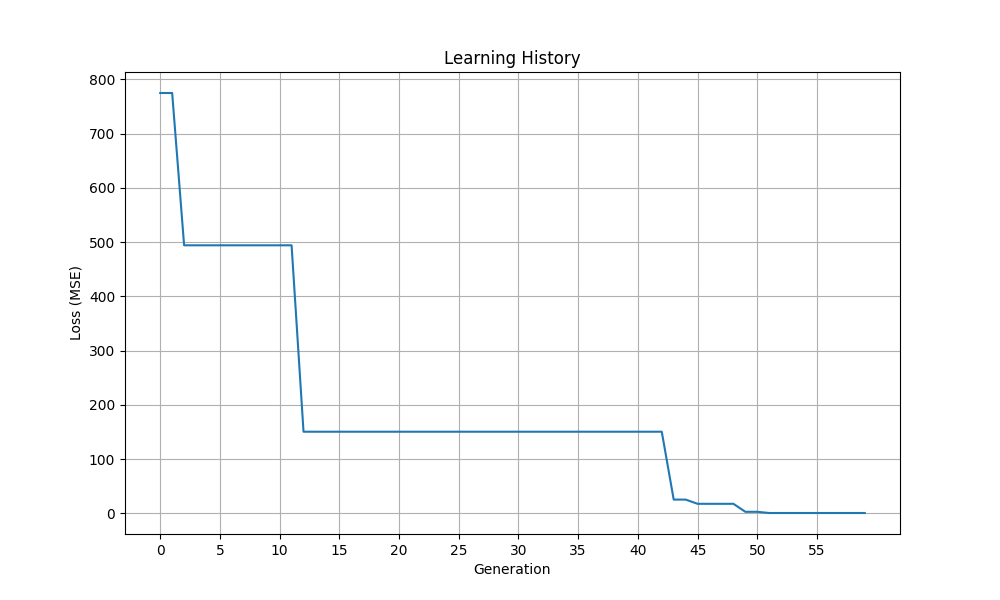
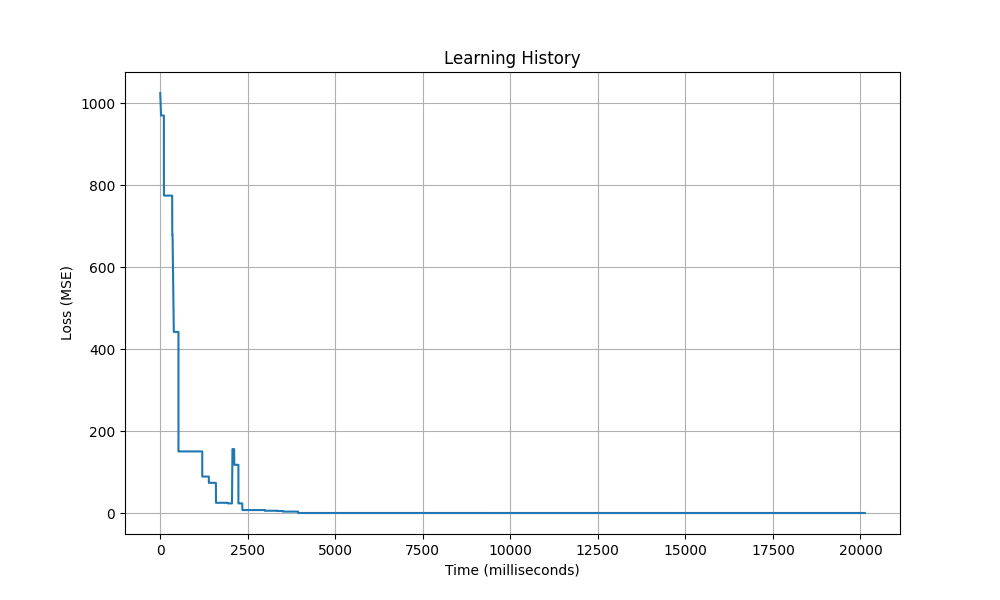
Make learning history with respect to time instead of generation

diff --git a/src/genetic/learning_history.cc b/src/genetic/learning_history.cc
@@ -5,11 +5,40 @@
 
 #include <cassert>
 #include <cmath>
+#include <iostream>
+#include <bits/chrono.h>
 
 namespace qsr {
 
+static long timestamp_in_milliseconds() {
+    const auto now = std::chrono::system_clock::now();
+    const auto duration = now.time_since_epoch();
+    return std::chrono::duration_cast<std::chrono::milliseconds>(duration).count();
+}
+
+static float minimum_with_nan_check(const float a, const float b)
+{
+    // If both are NaN
+    if (std::isnan(a) && std::isnan(b)) {
+        return std::numeric_limits<float>::quiet_NaN();
+    }
+    // If this is not NaN, but other is NaN
+    else if (!std::isnan(a) && std::isnan(b)) {
+        return a;
+    }
+    // If other is not NaN, but this is NaN
+    else if (std::isnan(a) && !std::isnan(b)) {
+        return b;
+    }
+    // If neither is NaN
+    else {
+        return std::min(a, b);
+    }
+}
+
 void LearningHistory::add_to_history(const Expression& expression) {
     history.push_back(expression.loss);
+    time.push_back(timestamp_in_milliseconds());
 }
 
 LearningHistory LearningHistory::combine_with(LearningHistory other) {
@@ -20,43 +49,48 @@ LearningHistory LearningHistory::combine_with(LearningHistory other) {
 
     LearningHistory combined;
 
-    // Ensure both histories have the same size
-    assert(this->history.size() == other.history.size());
+    // Ensure histories and times have the same size
+    assert(this->history.size() == this->time.size());
+    assert(other.history.size() == other.time.size());
 
-    for (int i = 0; i < this->history.size(); ++i) {
-        // If both are NaN
-        if (std::isnan(this->history[i]) && std::isnan(other.history[i])) {
-            combined.history.push_back(std::numeric_limits<float>::quiet_NaN());
+    int self_index = 0;
+    int other_index = 0;
+
+    float current_loss = std::numeric_limits<float>::max();
+    while (self_index < this->time.size() || other_index < other.time.size())
+    {
+        bool take_self = self_index < this->time.size();
+        if (take_self && other_index < other.time.size())
+            take_self = this->time[self_index] < other.time[other_index];
+
+        if (take_self)
+        {
+            const auto self_loss = this->history[self_index];
+            current_loss = minimum_with_nan_check(self_loss, current_loss);
+            combined.history.emplace_back(current_loss);
+            combined.time.emplace_back(this->time[self_index++]);
         }
-        // If this is not NaN, but other is NaN
-        else if (!std::isnan(this->history[i]) && std::isnan(other.history[i])) {
-            combined.history.push_back(this->history[i]);
-        }
-        // If other is not NaN, but this is NaN
-        else if (std::isnan(this->history[i]) && !std::isnan(other.history[i])) {
-            combined.history.push_back(other.history[i]);
-        }
-        // If neither is NaN
-        else {
-             // If this has lower loss, use this
-            if (this->history[i] < other.history[i]) {
-                combined.history.push_back(this->history[i]);
-            } 
-            // If other has lower loss, use other
-            else {
-                combined.history.push_back(other.history[i]);
-            }
+        else
+        {
+            const auto other_loss = other.history[other_index];
+            current_loss = minimum_with_nan_check(other_loss, current_loss);
+            combined.history.emplace_back(current_loss);
+            combined.time.emplace_back(other.time[other_index++]);
         }
     }
 
     return combined;
 }
 
-LearningHistory LearningHistory::concatenate_with(LearningHistory other) {
+LearningHistory LearningHistory::concatenate_with(LearningHistory other) const
+{
     LearningHistory concatenated;
 
     concatenated.history = this->history;
+    concatenated.time = this->time;
+
     concatenated.history.insert(concatenated.history.end(), other.history.begin(), other.history.end());
+    concatenated.time.insert(concatenated.time.end(), other.time.begin(), other.time.end());
 
     return concatenated;
 }

diff --git a/src/genetic/genetic_programming_islands.cc b/src/genetic/genetic_programming_islands.cc
@@ -53,7 +53,7 @@ GeneticProgrammingIslands::~GeneticProgrammingIslands() noexcept {
     delete[] local_learning_history;
 }
 
-std::tuple<Expression,std::vector<float>> GeneticProgrammingIslands::fit(
+std::tuple<Expression, std::vector<float>, std::vector<long>> GeneticProgrammingIslands::fit(
     std::shared_ptr<Dataset> dataset, 
     int ngenerations, int nsupergenerations, 
     int nepochs, float learning_rate, bool verbose) noexcept 
@@ -81,8 +81,17 @@ std::tuple<Expression,std::vector<float>> GeneticProgrammingIslands::fit(
         migrate_solutions();
     }
 
-    // Return tuple of best solution and learning history
-    return std::make_tuple(*global_best, global_learning_history.get_learning_history());
+    std::vector<float> final_learning_history = global_learning_history.get_learning_history();
+    std::vector<long> final_time_history = global_learning_history.get_time_history();
+
+    // Remove start offset from timestamps
+    const long min_time = *std::ranges::min_element(final_time_history);
+    for (long & i : final_time_history) {
+        i -= min_time;
+    }
+
+    // Return tuple of the best solution and learning history
+    return std::make_tuple(*global_best, final_learning_history, final_time_history);
 }
 
 void GeneticProgrammingIslands::migrate_solutions() noexcept {

diff --git a/quicksr.py b/quicksr.py
@@ -48,6 +48,7 @@ class SymbolicRegressionModel:
         )
 
         # Initialize history, solution and compiled solution to None
+        self.time_history = None
         self.history = None
         self.solution = None
         self.compiled_solution = None
@@ -68,14 +69,15 @@ class SymbolicRegressionModel:
         dataset = Dataset(X, y)
 
         # Fit the model
-        solution, history = self.model.fit(dataset, ngenerations, nsupergenerations, nepochs, learning_rate, verbose)
+        solution, history, time_history = self.model.fit(dataset, ngenerations, nsupergenerations, nepochs, learning_rate, verbose)
 
         # Save the solution and history
         self.solution = solution
         self.history = history
+        self.time_history = time_history
 
         # Return the solution and history
-        return solution, history
+        return solution, history, time_history
 
 
     def predict(self, X):

diff --git a/benchmark/benchmark1d.py b/benchmark/benchmark1d.py
@@ -20,21 +20,20 @@ y = 1.0 + 3.0*X + 5.0*X*X + 7.0*X*X*X
 model = SymbolicRegressionModel(NVARS, NWEIGHTS, NPOPULATION, NISLANDS, initialization=GrowInitialization(init_depth=1))
 
 # Fit model
-solution, history = model.fit(X, y, ngenerations=15, nsupergenerations=4, nepochs=500)
+solution, history, time_history = model.fit(X, y, ngenerations=15, nsupergenerations=4, nepochs=500)
 
 # Print best solution
 print("Best solution: {}".format(solution))
 
-# Print learning history
-print("Learning history: {}".format(history))
+# Print best loss
+print("Best loss: {}".format(solution.loss))
 
 # Plot learning history
 plt.figure(figsize=(10, 6))
-plt.plot(history)
-plt.xlabel('Generation')
+plt.plot(time_history, history)
+plt.xlabel('Time (milliseconds)')
 plt.ylabel('Loss (MSE)')
 plt.title('Learning History')
-plt.xticks(np.arange(0, len(history), 5.0))
 plt.grid()
 plt.savefig('benchmark_learning_history_1d.png')
 

diff --git a/benchmark/benchmark2d.py b/benchmark/benchmark2d.py
@@ -25,21 +25,20 @@ y = [1/(1 + x0**(-4)) + 1/(1 + x1**(-4))
 model = SymbolicRegressionModel(NVARS, NWEIGHTS, NPOPULATION, NISLANDS, functions=["+", "/", 'cos', 'relu'])
 
 # Fit model
-solution, history = model.fit(X, y, ngenerations=15, nsupergenerations=4, nepochs=0)
+solution, history, time_history = model.fit(X, y, ngenerations=15, nsupergenerations=4, nepochs=0)
 
 # Print best solution
 print("Best solution: {}".format(solution))
 
-# Print learning history
-print("Learning history: {}".format(history))
+# Print best loss
+print("Best loss: {}".format(solution.loss))
 
 # Plot learning history
 plt.figure(figsize=(10, 6))
-plt.plot(history)
-plt.xlabel('Generation')
+plt.plot(time_history, history)
+plt.xlabel('Time (milliseconds)')
 plt.ylabel('Loss (MSE)')
 plt.title('Learning History')
-plt.xticks(np.arange(0, len(history), 15.0))
 plt.grid()
 plt.savefig('benchmark_learning_history_2d.png')
 

diff --git a/include/quicksr/genetic/learning_history.hpp b/include/quicksr/genetic/learning_history.hpp
@@ -40,7 +40,7 @@ public:
      * @details
      * Appends the other's history to the end of this one.
      */
-    LearningHistory concatenate_with(LearningHistory other);
+    LearningHistory concatenate_with(LearningHistory other) const;
 
     /**
      * @brief Returns the learning history
@@ -51,8 +51,14 @@ public:
         return history;
     }
 
+    constexpr const std::vector<long>& get_time_history() const {
+        return time;
+    }
+
 private:
     std::vector<float> history;
+
+    std::vector<long> time;
 };
 
 }

diff --git a/include/quicksr/genetic/genetic_programming_islands.hpp b/include/quicksr/genetic/genetic_programming_islands.hpp
@@ -19,7 +19,7 @@ public:
         int nislands, const Config &config, const Toolbox &toolbox,
         std::shared_ptr<BaseRunnerGenerator> runner_generator) noexcept;
 
-    std::tuple<Expression,std::vector<float>> fit(
+    std::tuple<Expression,std::vector<float>,std::vector<long>> fit(
         std::shared_ptr<Dataset> dataset, 
         int ngenerations, int nsupergenerations, 
         int nepochs, float learning_rate, 

diff --git a/benchmark/benchmark_dataset_size.py b/benchmark/benchmark_dataset_size.py
@@ -45,7 +45,7 @@ def fit_model(dataset_size, runner_generator):
     )
 
     # Fit model
-    solution, history = model.fit(X, y, ngenerations=2, nsupergenerations=2, nepochs=100, verbose=True)
+    solution, history, time_history = model.fit(X, y, ngenerations=2, nsupergenerations=2, nepochs=100, verbose=True)
 
     # Find elapsed time
     elapsed_time = time.time() - start_time

diff --git a/benchmark/benchmark_population_size.py b/benchmark/benchmark_population_size.py
@@ -42,7 +42,7 @@ def fit_model(npopulation, runner_generator):
     )
 
     # Fit model
-    solution, history = model.fit(X, y, ngenerations=2, nsupergenerations=2, nepochs=250)
+    solution, history, time_history = model.fit(X, y, ngenerations=2, nsupergenerations=2, nepochs=250)
 
     # Find elapsed time
     elapsed_time = time.time() - start_time
